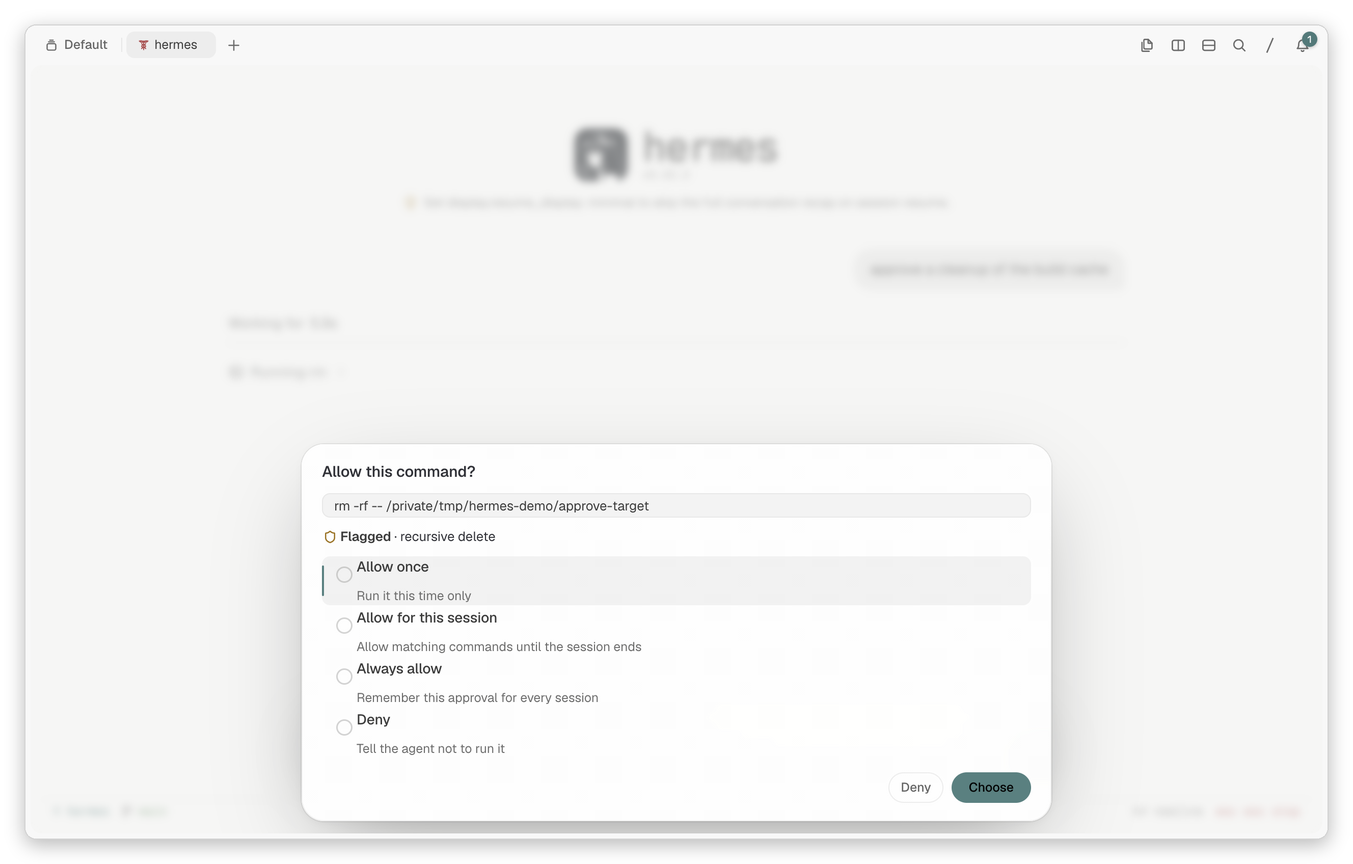
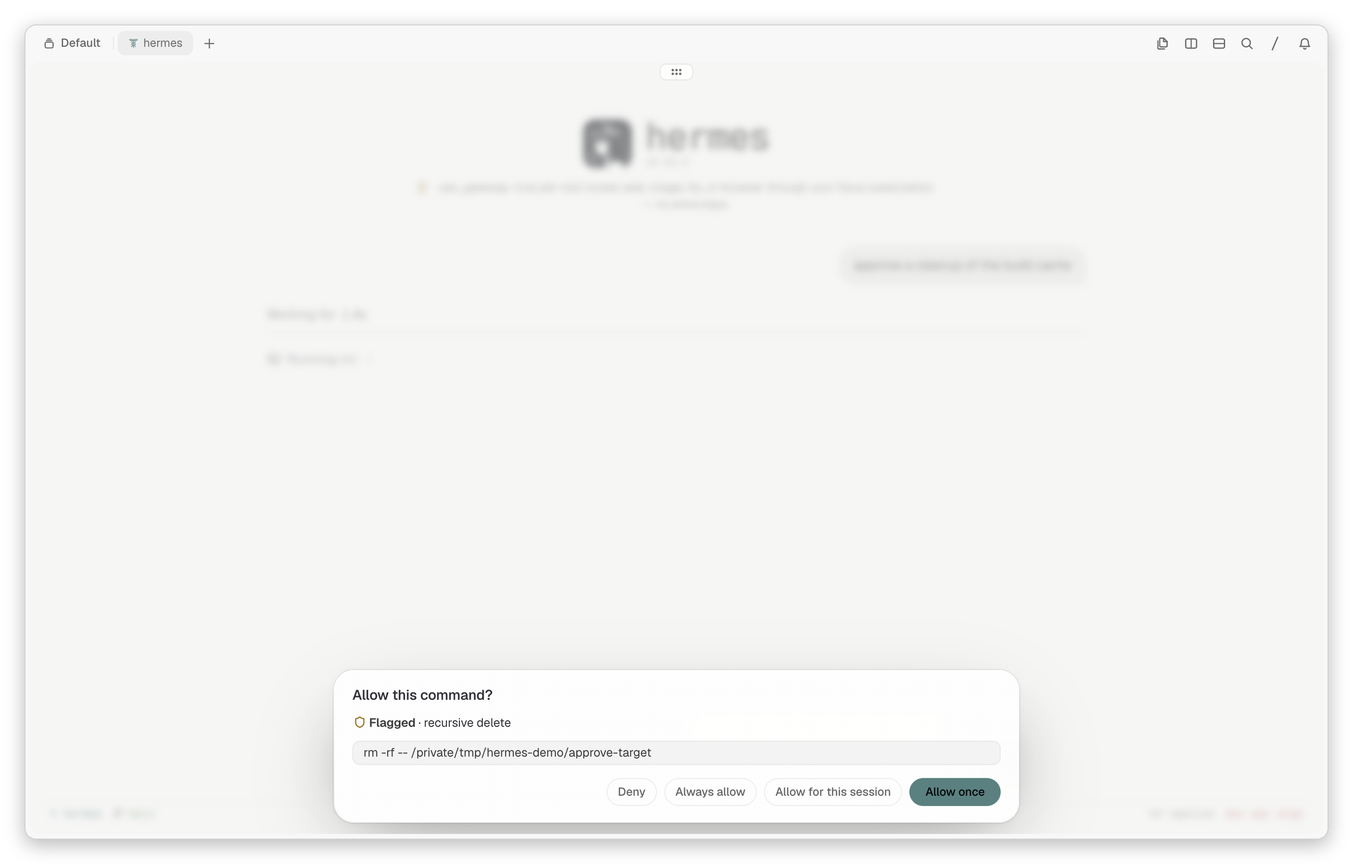
docs: a clearer README (keys, commands, a diagram, security as a table) and the new approval sheet's screenshot; the frontend README describes hermes tern's launch

diff --git a/README.md b/README.md
@@ -6,6 +6,22 @@
 </p>
 
 <p align="center">
+  <a href="LICENSE"><img alt="MIT license" src="https://img.shields.io/badge/license-MIT-blue"></a>
+  <img alt="Hermes Agent 0.22.2 or later" src="https://img.shields.io/badge/hermes--agent-%E2%89%A50.22.2-6f42c1">
+  <img alt="Tern 0.9.5" src="https://img.shields.io/badge/tern-0.9.5-2b7a78">
+</p>
+
+<p align="center">
+  <a href="#install">Install</a> ·
+  <a href="#the-chat">The chat</a> ·
+  <a href="#background-processes">Background processes</a> ·
+  <a href="#pull-requests">Pull requests</a> ·
+  <a href="#security-and-privacy">Security</a> ·
+  <a href="#how-it-works">How it works</a> ·
+  <a href="#development">Development</a>
+</p>
+
+<p align="center">
   <picture>
     <source media="(prefers-color-scheme: dark)" srcset="docs/images/hero-dark.png">
     <img alt="hermes tern: a chat beside a pull request docked at the pane's edge" src="docs/images/hero-light.png">
@@ -19,181 +35,176 @@ hermes plugins install hermes-tern            # from the plugin catalog, once li
 hermes plugins install alt-glitch/hermes-tern # or from GitHub
 ```
 
-Needs Hermes Agent 0.22.2 or later and [Tern](https://stencil.so/tern) (built and tested on 0.9.5).
+You need Hermes Agent 0.22.2 or later and [Tern](https://stencil.so/tern). The plugin is built and tested on Tern 0.9.5.
+
 Then, in a Tern pane:
 
 ```sh
-hermes tern                 # the chat, drawn by Tern
-hermes tern -c              # every `hermes chat` flag works: -m, -q, --image, --resume, --worktree, …
+hermes tern        # the chat, drawn by Tern
+hermes tern -c     # every `hermes chat` flag works: -m, -q, --image, --resume, --worktree, …
 ```
 
-`hermes tern` describes the chat to Tern over its Surface Protocol (TSP), so Tern draws it with its
-own components: Markdown, folds, diffs, sheets, asides and keys. Outside Tern (or inside
-tmux/screen/zellij) there is no TSP answer, and `hermes tern` starts the regular TUI instead. To
-open Hermes in Tern's agent pane, set Tern's agent command (`agent_command` in Tern's settings) to
-`hermes tern`.
+> [!TIP]
+> To open Hermes in Tern's agent pane, set `agent_command` in Tern's settings to `hermes tern`.
 
-## What it adds
+`hermes tern` describes the chat to Tern over the Tern Surface Protocol (TSP). Tern then draws it with its own components: Markdown, folds, diffs, sheets, asides and keys. If no TSP answer comes back, `hermes tern` starts the regular TUI instead. This happens outside Tern, and inside tmux, screen or zellij.
+
+### What the plugin adds
 
 | | |
 | --- | --- |
 | `hermes tern` | `hermes chat --tui` with this plugin's Tern frontend; the Ink TUI outside Tern |
-| `link_pull_request`, `unlink_pull_request`, `list_pull_requests` | tools: the PRs a conversation works on, shown above the composer |
-| `transform_tool_result` hook | a connector's connect result becomes a card in the chat that started it |
-| `tool_request` middleware | the agent's shell commands run with the chat's `TERN_PANE`, so `tern open` works beside the chat |
-| `tern_charts` auxiliary task | writes the rules behind a background process's live chart (`auxiliary.tern_charts` picks its model) |
-| system prompt section | tells the agent to link the PRs it opens |
+| `link_pull_request`, `unlink_pull_request`, `list_pull_requests` | Tools: the PRs a conversation works on, shown above the composer |
+| `transform_tool_result` hook | A connector's connect result becomes a card in the chat that started it |
+| `tool_request` middleware | The agent's shell commands run with the chat's `TERN_PANE`, so `tern open` works beside the chat |
+| `tern_charts` auxiliary task | Writes the rules behind a background process's live chart (`auxiliary.tern_charts` picks its model) |
+| System prompt section | Tells the agent to link the PRs it opens |
 
 ## The chat
 
-A turn shows what the agent does while it does it: its reasoning, short notes, and tool calls
-grouped into one line per run ("Ran 3 commands"). A todo list stays live in the transcript and in
-the status line. When the turn ends, the work folds into "Worked for 9.5s" and the answer stays.
+A turn shows what the agent does while it works: its reasoning, short notes, and its tool calls, grouped into one line per run ("Ran 3 commands"). A todo list stays live in the transcript and in the status line. When the turn ends, the work folds into "Worked for 9.5s", and the answer stays in view.
 
 <table>
   <tr>
     <td width="50%"><img alt="A turn in progress with a live todo list" src="docs/images/transcript.png"></td>
-    <td width="50%"><img alt="An approval sheet for a flagged command" src="docs/images/approval.png"></td>
+    <td width="50%"><img alt="An approval sheet for a flagged command, with one button per answer" src="docs/images/approval.png"></td>
   </tr>
   <tr>
-    <td><b>Live work.</b> Tool runs fold to one line; the todo list ticks as it goes.</td>
-    <td><b>Approvals.</b> A flagged command asks first: once, for the session, always, or deny.</td>
+    <td><b>Live work.</b> Tool runs fold to one line, and the todo list ticks as it goes.</td>
+    <td><b>Approvals.</b> A flagged command asks first. There is one button for each answer, and long commands wrap.</td>
   </tr>
   <tr>
     <td><img alt="Three delegated subagents running in the background" src="docs/images/subagents.png"></td>
     <td><img alt="The session sidebar docked at the pane's edge" src="docs/images/sidebar.png"></td>
   </tr>
   <tr>
-    <td><b>Subagents.</b> A delegated batch is one card, one row per agent, with its model and tool count.</td>
-    <td><b>Sidebar</b> (⌥S). The branch, the session's pull requests and the changed files.</td>
+    <td><b>Subagents.</b> A delegated batch is one card, with one row per agent: its model and its tool count.</td>
+    <td><b>Sidebar.</b> The branch, the session's pull requests and the changed files.</td>
   </tr>
 </table>
 
-Also: `/model` and `/effort` from the composer chips, `/sessions` to resume, `/ps` for background
-processes and cron jobs, `/agents` for subagents, `/changes` for the working tree's diff, and
-`/theme` to paint the chat in Tern's colors, Nous colors or the Hermes skin.
+### Keys and commands
+
+| Key | Does |
+| --- | --- |
+| <kbd>Enter</kbd> · <kbd>Shift</kbd>+<kbd>Enter</kbd> | Send · new line |
+| <kbd>Alt</kbd>+<kbd>Enter</kbd> | Steer: send into the running turn |
+| <kbd>Alt</kbd>+<kbd>↑</kbd> | Edit a queued prompt |
+| <kbd>Esc</kbd> <kbd>Esc</kbd> · <kbd>Ctrl</kbd>+<kbd>C</kbd> | Stop the turn |
+| <kbd>Shift</kbd>+<kbd>Tab</kbd> | Reasoning effort |
+| <kbd>Alt</kbd>+<kbd>S</kbd> · <kbd>Alt</kbd>+<kbd>P</kbd> · <kbd>Alt</kbd>+<kbd>J</kbd> · <kbd>Alt</kbd>+<kbd>A</kbd> | Sidebar · pull requests · background processes · subagents |
+| <kbd>Ctrl</kbd>+<kbd>V</kbd> | Paste an image |
+
+| Command | Does |
+| --- | --- |
+| `/model`, `/effort` | Pick the model and the reasoning effort (also the chips on the composer) |
+| `/sessions` | Resume a session from this project, or from any folder |
+| `/ps` | Background processes and cron jobs |
+| `/agents` | Subagents |
+| `/changes` | The working tree's diff |
+| `/prs [N]` | Pull requests, or PR #N |
+| `/theme` | Paint the chat in Tern's colors, Nous colors or the Hermes skin |
 
 ## Background processes
 
-A command the agent runs in the background (`terminal(background=true)`) gets a live chart, as in
-omp. After 15 s of output, Hermes' auxiliary model reads the command and samples of its output
-once and writes rules that pull numbers out of each line (throughput, latency, loss, tests passed,
-progress toward a total the command states), or declines when nothing is worth charting. From then
-on the plugin applies the rules to every new line itself, with no further model calls. A command
-that sends its output to a log file (`> /tmp/run.log 2>&1`, `| tee run.log`) is charted from that
-file. A decline is asked again once the output has doubled, since a job often starts with setup
-lines and prints its numbers later.
+The agent can run a command in the background (`terminal(background=true)`). Such a command gets a live chart, as in omp.
+
+1. After 15 s of output, Hermes' auxiliary model reads the command and samples of its output, once. It writes rules that pull numbers out of each line: throughput, latency, loss, tests passed, or progress toward a total that the command states. If nothing is worth charting, it declines.
+2. From then on, the plugin applies the rules to each new line itself. It makes no more model calls.
+3. A command that writes its output to a log file (`> /tmp/run.log 2>&1`, `| tee run.log`) is charted from that file.
+4. After a decline, the plugin asks again when the output has doubled. A job often prints setup lines first and its numbers later.
 
 <p align="center"><img alt="The shells pill with a job's figure and mini chart, its hover card above a column chart with a dashed goal line" src="docs/images/job-chart.png" width="600"></p>
 
-The shells pill shows the freshest figure and a mini chart; hover it for a tile per running
-process. The background terminal card draws the primary chart under its live line, a
-`process_manage` wait or poll on the process draws its tile (in view while the agent waits, as
-omp's `wait` card), and the Background sheet (`/ps`, ⌥J) the whole chart above the output. Each
-process's rules are kept in `$HERMES_HOME/plugin-data/hermes-tern/charts/`, so another pane on the
-session, or a resumed one, charts it without asking the model again. Goals the command states draw as
-dashed lines. The request goes to the plugin's `tern_charts` auxiliary task, so `auxiliary.tern_charts`
-in `config.yaml` (or Hermes' model picker) chooses a cheap model for it, and Hermes redacts secrets in the samples before they
-leave. Turn charts off with `"jobCharts": false` in `$HERMES_HOME/hermes-tern/settings.json`.
+| Where | What it shows |
+| --- | --- |
+| The shells pill | The newest figure and a mini chart. Hover over it to see a tile for each running process. |
+| The background terminal card | The primary chart, under the process's live line |
+| A `process_manage` wait or poll | The process's tile, in view while the agent waits |
+| The Background sheet (`/ps`, <kbd>Alt</kbd>+<kbd>J</kbd>) | The whole chart, above the output |
+
+Goals that the command states draw as dashed lines. The plugin keeps each process's rules in `$HERMES_HOME/plugin-data/hermes-tern/charts/`. So another pane on the session, or a resumed session, charts the process without a new model call.
+
+- **Model:** `auxiliary.tern_charts` in `config.yaml` (or Hermes' model picker) chooses the model. Use a cheap one.
+- **Secrets:** Hermes redacts secrets in the samples before they leave.
+- **Turn charts off:** set `"jobCharts": false` in `$HERMES_HOME/hermes-tern/settings.json`.
 
 ## Pull requests
 
-The agent links every PR it opens or works on, as T3 Code does. The pill above the composer counts
-them; click it (or ⌥P) and a tray drops up with each PR's state and age.
+The agent links every PR that it opens or works on, as T3 Code does. The pill above the composer counts them. Click it (or press <kbd>Alt</kbd>+<kbd>P</kbd>) to open a tray with each PR's state and age.
 
 <p align="center"><img alt="The PR tray above the composer" src="docs/images/pr-tray.png" width="760"></p>
 
-Pick one and it docks at the chat's right edge, beside the conversation. The chat narrows and
-keeps the keys, so you can go on talking to the agent while the PR stays in view. `/prs 22` opens
-#22 directly.
+Pick a PR, and it docks at the chat's right edge, beside the conversation. The chat gets narrower but keeps the keys, so you can continue to talk to the agent while the PR stays in view. `/prs 22` opens #22 directly.
 
 <table>
   <tr>
     <td width="42%"><img alt="The Files tab: Tern's own edit cards and diffs" src="docs/images/pr-files.png"></td>
     <td>
 
-**Drawn as GitHub draws it.** PR bodies and comments go through the same pipeline T3 Code's PR
-panel uses (`remark-gfm`, `rehype-raw`, GitHub's sanitize schema). `<details>` become folds, bot
-badges become links, HTML comments go away, and tables, task lists, alerts and mermaid draw
-natively. `#123` and `@login` link.
+**Drawn as GitHub draws it.** PR bodies and comments go through the same pipeline as T3 Code's PR panel (`remark-gfm`, `rehype-raw`, GitHub's sanitize schema). `<details>` become folds, bot badges become links, and HTML comments are removed. Tables, task lists, alerts and mermaid diagrams draw natively. `#123` and `@login` are links.
 
 **Three tabs, as on GitHub.**
 
-- **Conversation**: the description, then every comment, review, review thread and commit, in order.
-- **Checks**: failing and running checks open; passed and skipped ones folded.
-- **Files**: each file is Tern's own edit card with its diff, highlighted and folded around the hunks.
+- **Conversation:** the description, then every comment, review, review thread and commit, in order.
+- **Checks:** failing and running checks are open; passed and skipped checks are folded.
+- **Files:** each file is Tern's own edit card with its diff, highlighted, and folded around the hunks.
 
-**Actions.** Merge and close (both ask first), ready for review, update branch, re-run failed
-jobs, copy `gh pr checkout N`, open on GitHub.
+**Actions.** Merge and close (both ask first), mark ready for review, update the branch, re-run failed jobs, copy `gh pr checkout N`, and open on GitHub.
 
-The aside is as wide as Tern's Settings sheet: drag that sheet's edge (⌘,) to resize it.
+The aside is as wide as Tern's Settings sheet. To resize it, drag that sheet's edge (<kbd>⌘</kbd>+<kbd>,</kbd>).
 
 </td>
   </tr>
 </table>
 
-The agent gets three tools: `link_pull_request`, `unlink_pull_request` and `list_pull_requests`.
-Links are kept per conversation in `$HERMES_HOME/plugin-data/hermes-tern/pull-requests.json`, so
-they survive compression and resume. The list also shows two kinds of PR the agent did not link:
-the PR of the session's branch, and the other layers of a GitHub stack that a listed PR is part
-of. PRs are read from GitHub with your own token, which Hermes provides: set it once with
-`hermes config set GITHUB_TOKEN <token>` (for example the output of `gh auth token`). The plugin
-never reads another tool's login.
+The links are kept for each conversation in `$HERMES_HOME/plugin-data/hermes-tern/pull-requests.json`, so they survive compression and resume. The list also shows two kinds of PR that the agent did not link:
+
+- the PR of the session's branch;
+- the other layers of a GitHub stack that a listed PR is part of.
+
+The plugin reads PRs from GitHub with your own token, which Hermes provides. Set it once:
+
+```sh
+hermes config set GITHUB_TOKEN "$(gh auth token)"
+```
+
+The plugin never reads another tool's login.
 
 ## Security and privacy
 
-What the plugin does beyond drawing the chat, so you can decide before installing:
+This section lists what the plugin does beyond drawing the chat, so you can decide before you install it.
 
-- **Network.** GitHub's API, with the token Hermes gives it (`GITHUB_TOKEN`), for the pull request
-  view and actions you click (merge and close ask first). The job charts send the command and
-  samples of a background process's output, redacted by Hermes first, to your own auxiliary model
-  (`auxiliary.tern_charts`), once per process. Nothing else; no telemetry.
-- **Commands.** A `tool_request` middleware adds `export TERN_PANE=…` (the chat's Tern pane) before
-  the agent's shell commands in sessions a Tern pane shows; approvals and guards see the command
-  as it runs. `!cmd` and `{!cmd}` in the composer run through Hermes' own `shell.exec` (its
-  dangerous-command refusal applies), and only when typed: a pasted `{!cmd}` never runs. The
-  composer's `/` commands are Hermes' own.
-- **Processes.** `hermes tern` runs `hermes chat --tui` in the same process. The chart helper
-  (`widget_author.py`) runs in Hermes' interpreter for one model request and exits. Opening the
-  sidebar or a file beside the chat runs Tern's own `tern` CLI.
-- **Reads outside its data.** Hermes' session database (read-only: a conversation's compression
-  lineage and its subagents' parents); the output of the session's background processes, and the
-  log files their commands write to (for charts); the files you open from the chat.
-- **Stored data.** `$HERMES_HOME/plugin-data/hermes-tern/`: linked pull requests, which panes show
-  which sessions (with their Tern variables), chart rules, connect cards.
-  `$HERMES_HOME/hermes-tern/settings.json`: theme and chart settings.
+| | |
+| --- | --- |
+| **Network** | GitHub's API, with the token that Hermes gives it (`GITHUB_TOKEN`). It is used for the pull request view and for the actions you click; merge and close ask first. The job charts send the command and samples of a background process's output to your own auxiliary model (`auxiliary.tern_charts`), once per process, after Hermes redacts them. Nothing else. **No telemetry.** |
+| **Commands** | A `tool_request` middleware adds `export TERN_PANE=…` (the chat's Tern pane) before the agent's shell commands, in sessions that a Tern pane shows. Approvals and guards see the command as it runs. `!cmd` and `{!cmd}` in the composer run through Hermes' own `shell.exec`, so its dangerous-command refusal applies. They run only when you type them: a pasted `{!cmd}` never runs. The composer's `/` commands are Hermes' own. |
+| **Processes** | `hermes tern` runs `hermes chat --tui` in the same process. The chart helper (`widget_author.py`) runs in Hermes' interpreter for one model request, then exits. Opening the sidebar, or a file beside the chat, runs Tern's own `tern` CLI. |
+| **Reads outside its data** | Hermes' session database, read-only: a conversation's compression lineage and its subagents' parents. The output of the session's background processes, and the log files that their commands write to (for charts). The files you open from the chat. |
+| **Stored data** | `$HERMES_HOME/plugin-data/hermes-tern/`: linked pull requests, which panes show which sessions (with their Tern variables), chart rules and connect cards. `$HERMES_HOME/hermes-tern/settings.json`: the theme and chart settings. |
 
 ## How it works
 
-- `__init__.py` registers `hermes tern`. It runs `hermes chat --tui <flags>` with
-  `HERMES_TUI_DIR` pointing at `frontend/`, so Hermes' own launcher still does profile, cwd,
-  resume, worktree, the gateway attach and the exit summary. Exit code 75 (no TSP) reruns
-  `hermes chat --tui` without it.
-- `widget_author.py` runs in Hermes' interpreter when the frontend asks for a background
-  process's chart rules: it calls the auxiliary model (task `tern_charts`) and prints the answer.
-  The frontend validates the rules and runs them (`frontend/src/processes/widgets/`, ported from
-  omp's job widgets), using Node's linear-time regex engine so no rule can stall the chat.
-- `frontend/` is the TSP frontend, a TypeScript app on [`@stencil-hq/tern`](https://www.npmjs.com/package/@stencil-hq/tern).
-  It talks to the profile's shared Hermes gateway (`hermes-gateway-v1`) through Hermes' own
-  gateway client. `frontend/dist/entry.js` is committed, so installing needs no npm step.
-- The agent's tools run in that shared gateway, not in the chat's pane, so `tern_env.py` (a
-  `tool_request` middleware) puts an `export` of the `TERN_PANE` and window variables of the pane
-  that shows the conversation before each shell command the agent runs (in the foreground, in the
-  background, and from a Python cell), read from the pane's marker at the call. The model's history
-  keeps the command as it wrote it, and the frontend leaves the prefix out of what it shows. Plain `tern open`, `tern split` and the rest of Tern's CLI act
-  beside the chat, as they do from `hermes chat` in a Tern pane. [`docs/tern-blocks.md`](docs/tern-blocks.md) is
-  the short guide to scripting blocks that way: split, run, capture, wait, close.
-- The frontend began as [can1357](https://github.com/can1357)'s `ui-tsp`
-  (`can1357/hermes-agent@tern-frontend`) and keeps omp's chat roles (`omp.session`, …), which
-  Tern's chat styles, tool folding and Carly integration are written against.
+```mermaid
+flowchart LR
+  subgraph Tern pane
+    T[Tern] <-->|TSP| F[frontend/dist/entry.js<br/>the chat UI]
+  end
+  F <-->|JSON-RPC| G[Hermes gateway<br/>shared by the profile]
+  subgraph Hermes
+    G --> A[agent + tools]
+    P[hermes-tern plugin<br/>__init__.py · tern_env.py ·<br/>pull_requests.py · connections.py] -.hooks.-> G
+  end
+  A -->|shell commands, with<br/>the pane's TERN_PANE| T
+```
 
-### Compatibility
+- **`__init__.py`** registers `hermes tern`. It runs `hermes chat --tui <flags>` with `HERMES_TUI_DIR` pointing at `frontend/`, so Hermes' own launcher still handles the profile, the working folder, resume, worktrees, the gateway attach and the exit summary. Exit code 75 (no TSP) reruns `hermes chat --tui` without the plugin's frontend.
+- **`frontend/`** is the TSP frontend: a TypeScript app on [`@stencil-hq/tern`](https://www.npmjs.com/package/@stencil-hq/tern). It talks to the profile's shared Hermes gateway (`hermes-gateway-v1`) through Hermes' own gateway client. `frontend/dist/entry.js` is committed, so an install needs no build step. [`frontend/README.md`](frontend/README.md) maps its modules.
+- **`tern_env.py`** is needed because the agent's tools run in that shared gateway, not in the chat's pane. This `tool_request` middleware puts an `export` of the pane's `TERN_PANE` and window variables before each shell command that the agent runs: in the foreground, in the background, and from a Python cell. It reads them from the pane's marker when the call is made. The model's history keeps the command as the model wrote it, and the frontend leaves the prefix out of what it shows. So plain `tern open`, `tern split` and the rest of Tern's CLI act beside the chat. [`docs/tern-blocks.md`](docs/tern-blocks.md) is a short guide to scripting blocks that way: split, run, capture, wait and close.
+- **`widget_author.py`** runs in Hermes' interpreter when the frontend asks for a background process's chart rules. It calls the auxiliary model (task `tern_charts`) and prints the answer. The frontend validates the rules and runs them (`frontend/src/processes/widgets/`, ported from omp's job widgets). It uses Node's linear-time regex engine, so no rule can stall the chat.
 
-The bundle inlines Hermes' renderer-free ui-tui modules (gateway client, skins) and
-`apps/shared` from the Hermes commit it was built against; the build prints it. At runtime it
-runs that client against the installed Hermes, which starts the gateway through
-`ui-tui/scripts/gateway_bootstrap.py`. That script and the gateway wire are Hermes internals:
-rebuild against a newer Hermes when they change.
+> [!NOTE]
+> **Compatibility.** The bundle inlines Hermes' renderer-free ui-tui modules (the gateway client and skins) and `apps/shared`, from the Hermes commit in `frontend/hermes-src.lock`. At run time it runs that client against the installed Hermes, which starts the gateway through `ui-tui/scripts/gateway_bootstrap.py`. That script and the gateway's wire format are Hermes internals: when they change, rebuild against the newer Hermes.
 
 ## Development
 
@@ -203,18 +214,25 @@ uv run --with pytest pytest -q                    # the Python side (no Hermes c
 
 cd frontend
 HERMES_SRC=~/path/to/hermes-agent bun run setup   # links .hermes-src, installs (bun)
-bun run check                                     # typecheck + tests
+bun run check                                     # typecheck, tests, lint, size and strictness ratchets
 bun run bundle                                    # rebuilds dist/entry.js: commit it with the change
 ```
 
-`lab/fake_model.py --home DIR` writes a disposable `HERMES_HOME` pointed at a loopback model and
-serves it. The prompt picks the flow: "approve", "clarify", "tool", "work…", "delegate…",
-"errands…", "jobchart…", "pr URL…" and more (the file's docstring lists them all); anything else streams
-Markdown. `lab/chartbench.ts` replays real background jobs (their recorded output and log files) through the
-chart registry and the auxiliary model, and reports which ones chart. Pair the fake model with a headless Tern (`tern serve --control PORT`, then
-`tern ctl --control PORT run|type|key|shot …`) to check the UI without credentials. The
-screenshots above come from that setup.
+<details>
+<summary><b>The lab: drive the UI without credentials</b></summary>
+
+`lab/fake_model.py --home DIR` writes a disposable `HERMES_HOME` that points at a loopback model, and then serves that model. The prompt picks the flow: "approve", "clarify", "tool", "work…", "delegate…", "errands…", "jobchart…", "pr URL…" and more. The file's docstring lists them all. Any other prompt streams Markdown.
+
+Pair the fake model with a headless Tern (`tern serve --control PORT`, then `tern ctl --control PORT run|type|key|shot …`) to check the UI. The screenshots in this README come from that setup.
+
+`lab/chartbench.ts` replays real background jobs (their recorded output and log files) through the chart registry and the auxiliary model, and reports which jobs chart.
+
+</details>
+
+## Credits
+
+The frontend began as [can1357](https://github.com/can1357)'s `ui-tsp` (`can1357/hermes-agent@tern-frontend`). It keeps omp's chat roles (`omp.session`, …), which Tern's chat styles, tool folding and Carly integration are written against. Some UI patterns come from [T3 Code](https://github.com/pingdotgg/t3code).
 
 ## License
 
-MIT. See `LICENSE`.
+MIT. See [`LICENSE`](LICENSE).

diff --git a/frontend/README.md b/frontend/README.md
@@ -1,23 +1,24 @@
-# ui-tsp — Hermes for Tern
+# hermes-tern frontend
 
-A frontend for Hermes that describes its UI to [Tern](https://stencil.so/tern) over the
-Tern Surface Protocol (TSP) instead of painting terminal cells: the transcript, tool calls,
-thinking, the composer and every sheet are semantic nodes the terminal lays out, draws and
-animates natively. It is a sibling of the Ink TUI (`ui-tui/`) and talks to the same backend,
-`tui_gateway`, over the same JSON-RPC contract.
+The chat UI that `hermes tern` runs. It describes the UI to [Tern](https://stencil.so/tern) over
+the Tern Surface Protocol (TSP) instead of painting terminal cells: the transcript, tool calls,
+thinking, the composer and every sheet are semantic nodes that the terminal lays out, draws and
+animates natively. It is a sibling of Hermes' Ink TUI (`ui-tui/`), and it talks to the same
+backend, `tui_gateway`, over the same JSON-RPC contract.
 
 ## Running
 
-`hermes` picks it on its own inside Tern (`TERM_PROGRAM=tern`, outside tmux/screen/zellij):
+The plugin's `hermes tern` command (`../__init__.py`) runs `hermes chat --tui` with
+`HERMES_TUI_DIR` pointing here, so Hermes' launcher starts `dist/entry.js`. The frontend asks the
+terminal for TSP first. A terminal that does not answer makes it exit with code 75, and
+`hermes tern` runs the Ink TUI in its place.
 
-| Switch | Effect |
-| --- | --- |
-| `hermes --cli` | Classic REPL, as always |
-| `HERMES_TERN=0` or `display.tern: false` | Never try the Tern frontend |
-| `HERMES_TERN=1` | Try it even where `TERM_PROGRAM` doesn't say Tern (Tern over ssh) |
-
-The frontend asks the terminal for TSP first. A terminal that doesn't answer makes it exit with
-code 75, and the launcher runs the Ink TUI in its place (`hermes_cli/main_tui_launch.py`).
+```mermaid
+flowchart LR
+  GW[gateway events] --> L[session/lifecycle] --> D[gateway/dispatch] --> S[(stores)]
+  K[keys] --> KR[draft/keys] --> A[app/actions] --> R[turn/router] -->|wire/rpc| GW
+  S --> F[app/frame] --> T[Tern surface]
+```
 
 ## Layout
 
